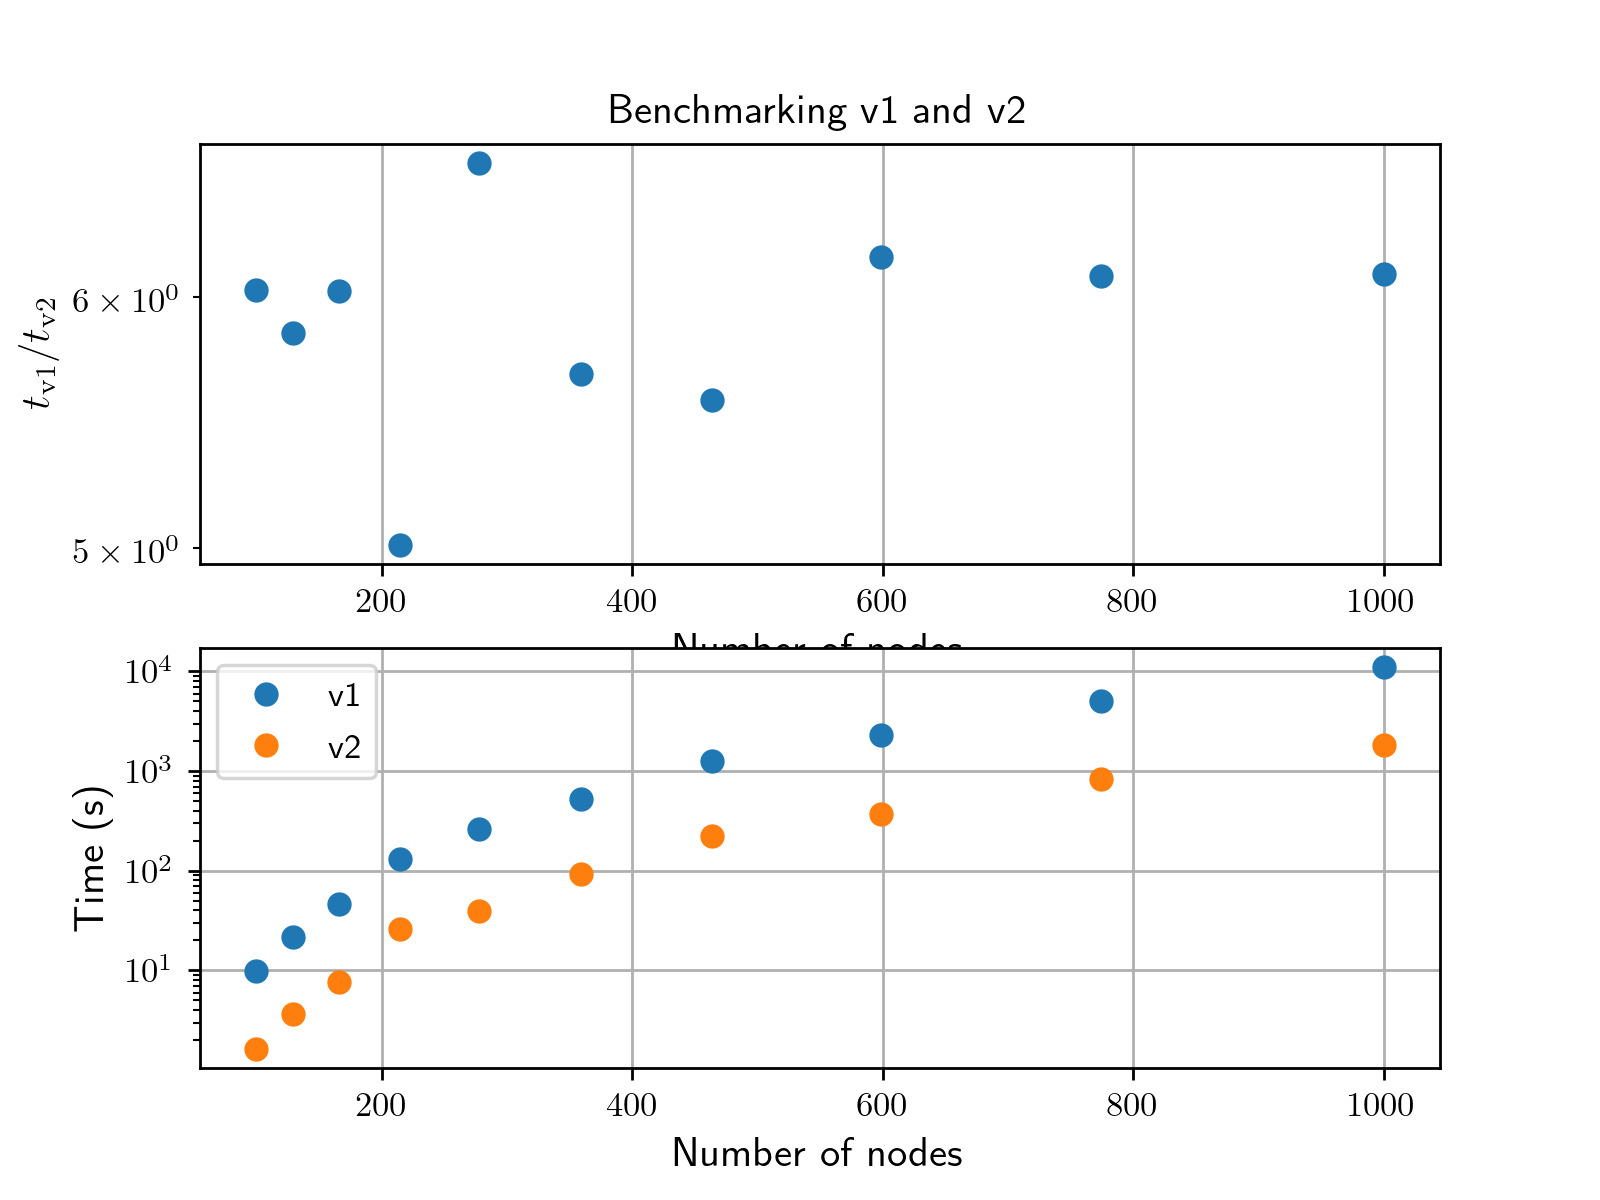
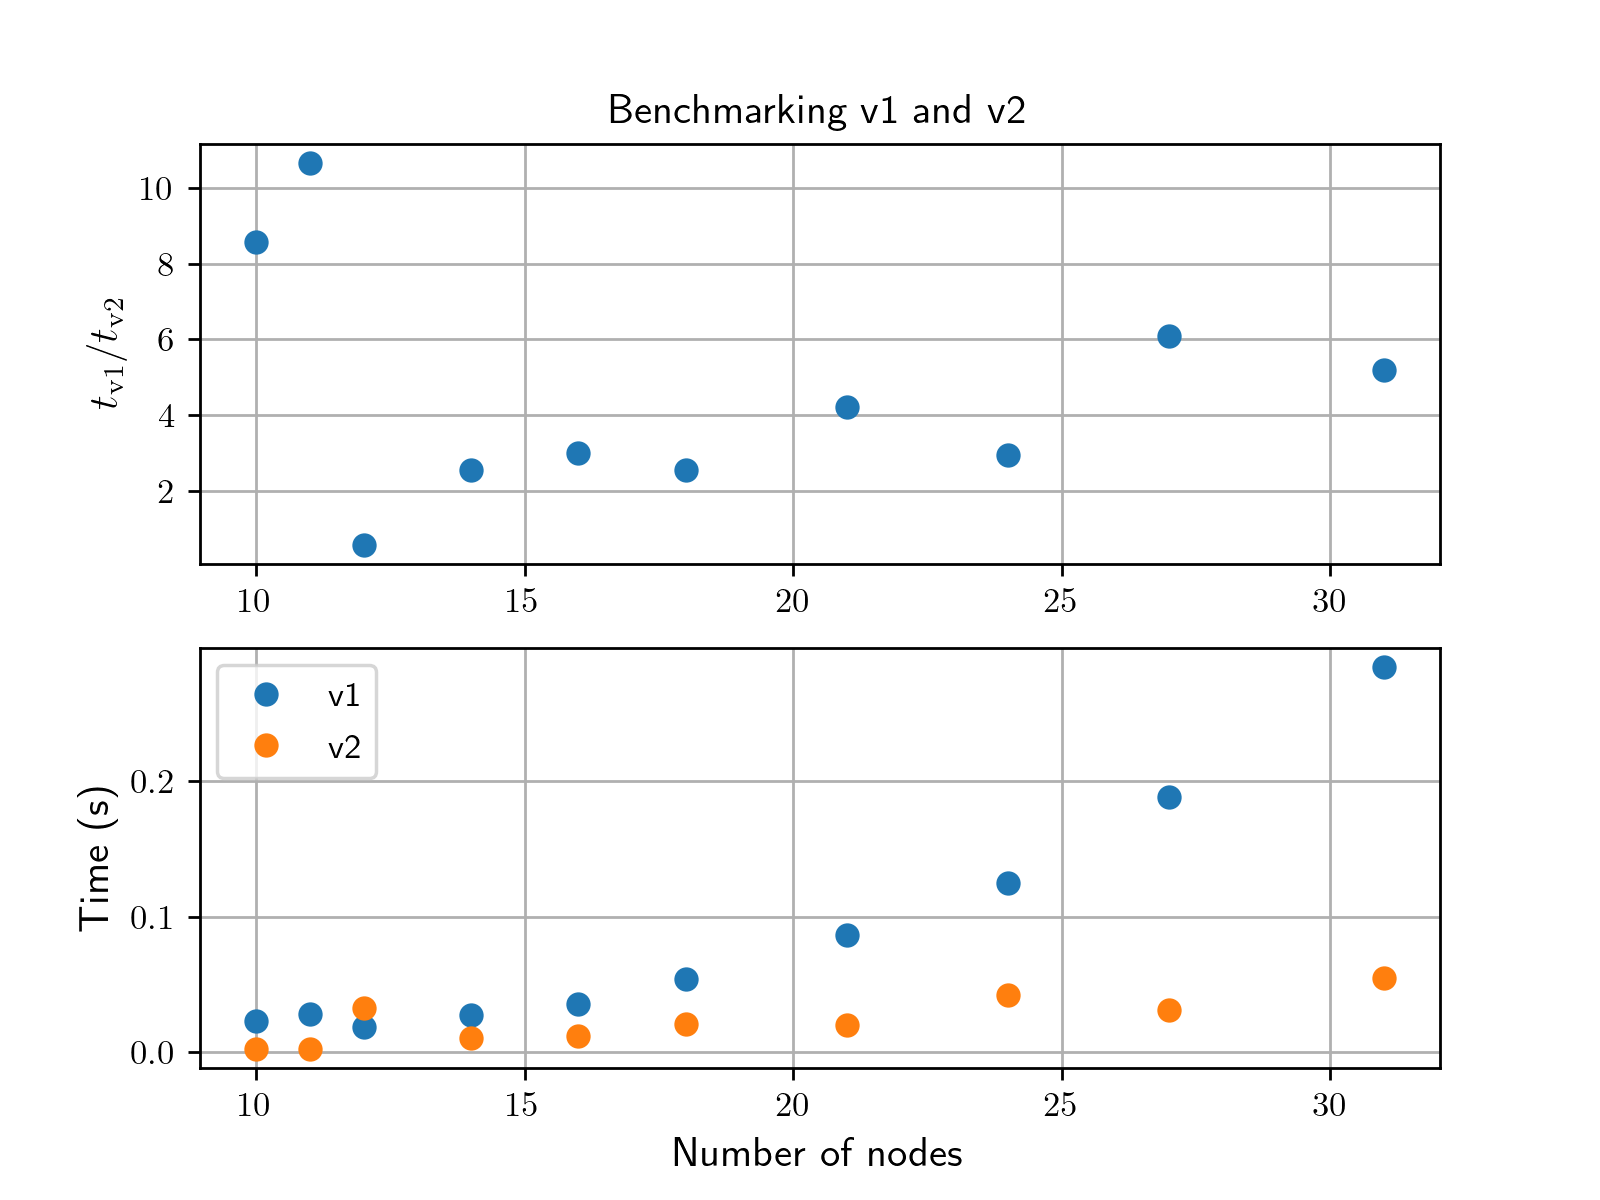
Implemented the algorithms in C
The time execution difference between python and C is huge. 1000 nodes in C takes 0.02 seconds and in python around 10000 seconds

diff --git a/src/python/v2.py b/src/python/v2.py
@@ -15,12 +15,57 @@ def countTriangles (adjacency):
 
 if __name__ == "__main__":
     # Driver code
-    graph = [[0, 1, 0, 0, 1, 0],  
-            [1, 0, 1, 0, 1, 0],  
-            [0, 1, 0, 1, 0, 0],  
-            [0, 0, 1, 0, 1, 1],
-            [1, 1, 0, 1, 0, 0],
-            [0, 0, 0, 1, 0, 0]] 
+    graph = [[0,1,1,1,0,0,1,1,0,0,0,0,1,0,0,1,0,0,0,0,1,0,1,1,0,0,1,1,1,1,0,1,0,1,1,0,0,0,1,0,0,1,0,1,0,0,0,0,1,0],
+            [0,0,0,1,1,0,1,1,1,0,0,1,1,0,1,0,0,1,1,1,1,1,0,0,1,0,0,1,0,1,0,0,0,0,1,1,1,0,0,0,0,0,0,0,0,1,0,0,0,1],
+            [1,1,1,0,1,0,0,0,1,1,1,1,1,1,0,1,1,1,1,1,1,0,0,1,0,0,0,0,1,0,0,0,0,1,0,1,1,1,1,0,0,1,0,1,0,0,0,1,1,0],
+            [1,0,0,1,0,0,1,0,0,0,1,0,1,1,1,1,0,0,0,0,1,0,1,1,0,1,1,0,1,0,0,0,0,0,1,0,0,0,1,1,1,0,1,0,1,1,1,1,1,0],
+            [1,0,0,0,1,0,0,0,1,1,0,1,1,1,0,0,1,0,0,0,1,1,0,1,1,1,0,1,1,1,1,0,0,1,1,1,0,1,0,1,0,0,0,1,1,0,1,1,1,1],
+            [1,0,1,0,1,0,1,1,1,0,1,0,1,1,0,0,0,0,1,0,1,1,1,1,0,0,0,1,1,1,0,1,1,1,1,1,0,0,0,1,1,1,0,0,0,0,0,1,0,1],
+            [1,1,0,0,0,0,1,0,1,0,1,1,1,1,1,0,0,1,1,0,0,0,0,0,0,0,0,0,1,0,1,1,1,1,1,0,1,0,0,0,1,0,1,0,1,0,1,1,1,0],
+            [1,0,0,1,0,0,0,1,0,1,1,1,0,1,0,0,1,1,0,1,1,1,1,0,0,0,1,1,1,0,1,1,0,1,0,1,1,0,0,1,0,1,0,0,0,0,0,1,1,1],
+            [1,0,0,0,0,0,1,1,1,0,0,0,1,0,1,0,1,0,0,1,1,0,1,1,1,1,1,1,1,0,0,0,0,1,0,1,1,1,0,1,0,0,1,1,1,1,1,0,1,0],
+            [0,1,0,1,0,1,0,0,1,1,0,1,1,1,0,0,0,0,1,0,1,1,1,0,1,0,1,0,0,1,0,0,0,1,1,0,0,0,0,1,1,1,1,1,0,1,1,0,1,0],
+            [0,0,0,1,1,1,1,0,1,0,1,0,0,1,1,0,0,1,0,0,1,1,1,0,0,1,1,1,1,1,0,0,1,0,1,0,1,1,1,0,1,0,0,1,0,1,1,0,1,1],
+            [0,0,1,0,0,1,1,1,1,1,0,1,1,0,1,0,0,0,1,1,0,0,0,1,0,0,0,1,0,1,1,0,1,0,0,1,1,0,1,0,1,1,1,0,1,0,0,0,0,0],
+            [1,1,0,1,0,0,1,0,0,1,0,1,0,1,1,0,1,0,0,0,1,1,1,0,1,1,1,0,1,1,0,0,0,0,0,0,1,1,1,1,1,1,0,1,0,1,1,1,1,0],
+            [1,0,1,1,1,1,0,0,1,1,1,1,1,0,1,1,0,0,1,1,1,0,0,1,1,1,0,0,0,0,0,0,0,0,1,1,1,1,1,0,0,1,1,1,1,0,1,1,1,0],
+            [1,0,0,1,0,1,0,0,1,1,0,0,1,1,0,0,0,1,1,0,1,1,1,0,0,0,0,1,1,1,1,0,0,1,0,0,0,0,0,0,1,1,0,0,0,0,0,0,1,1],
+            [0,0,0,1,0,1,1,0,0,1,0,0,1,0,1,1,0,0,0,0,0,1,1,0,0,1,0,0,0,1,0,0,1,0,0,1,1,1,1,0,0,1,0,0,1,1,1,1,1,1],
+            [0,1,1,1,1,1,1,1,1,1,0,1,1,1,0,1,0,1,1,0,1,1,1,1,1,1,1,1,0,0,0,0,0,1,0,1,0,1,1,0,0,1,1,1,1,1,1,1,1,0],
+            [1,0,1,1,0,1,0,1,0,0,1,0,1,1,0,1,1,0,0,0,0,0,1,0,1,0,1,0,0,0,0,1,1,0,0,1,1,0,0,1,1,1,1,0,1,1,1,0,0,1],
+            [0,0,1,1,0,0,0,0,1,0,0,1,1,1,1,0,0,0,0,0,1,1,0,1,1,1,0,0,1,0,1,1,1,0,0,1,1,0,1,0,0,0,1,0,1,1,0,0,1,0],
+            [0,1,0,0,0,1,1,0,0,0,1,1,1,0,0,0,1,1,0,1,1,1,1,0,1,0,1,1,0,1,1,1,0,1,1,0,1,1,0,1,1,1,0,1,1,0,1,1,1,1],
+            [0,0,0,1,1,1,1,0,0,0,1,0,1,1,1,0,1,0,1,0,1,1,1,0,0,1,0,1,0,0,0,0,0,1,1,1,0,0,0,1,0,1,1,1,1,0,0,0,1,1],
+            [0,0,0,0,0,0,1,1,1,1,1,0,1,1,1,0,1,1,0,1,0,1,0,1,0,1,0,0,0,1,0,0,1,0,0,0,1,1,1,0,0,0,0,1,1,1,1,0,1,0],
+            [1,1,1,0,1,1,1,1,0,1,0,0,0,1,0,0,1,1,0,0,0,0,0,0,0,0,0,1,0,1,1,0,0,0,0,1,0,1,0,0,1,0,0,1,0,0,1,1,0,1],
+            [0,0,0,0,0,0,0,0,1,1,1,1,1,0,1,1,1,1,0,0,1,1,0,1,0,0,0,0,0,0,1,0,0,1,0,0,1,1,1,1,0,0,0,1,0,1,0,0,1,0],
+            [0,0,0,0,0,0,1,0,0,1,0,0,1,0,1,1,0,1,0,1,0,0,0,0,1,0,1,1,0,0,0,0,1,0,1,1,0,0,1,1,1,1,1,0,1,0,1,1,1,0],
+            [1,1,0,1,1,0,1,1,1,0,1,1,0,0,1,1,1,0,1,0,1,0,1,0,0,0,0,0,0,0,0,1,1,0,0,1,0,1,0,0,1,1,1,0,0,1,1,1,1,1],
+            [0,0,1,1,0,0,0,0,0,0,0,0,1,0,0,1,1,1,0,1,1,0,0,0,0,0,1,1,0,0,0,0,0,0,1,0,0,1,1,0,1,1,0,0,1,0,1,0,1,0],
+            [1,0,0,0,1,0,0,0,1,0,1,0,0,1,0,0,0,0,1,1,0,1,0,0,1,0,0,1,0,0,1,0,0,1,0,1,1,0,0,0,1,1,0,1,0,0,1,0,0,1],
+            [1,0,0,0,0,1,0,1,0,0,1,1,0,1,0,0,1,1,1,1,0,0,0,0,1,0,1,1,1,1,0,0,0,0,0,0,1,0,1,0,1,0,1,1,0,0,0,1,1,1],
+            [0,1,1,0,0,0,0,1,1,1,0,1,0,0,1,0,1,1,1,0,1,0,1,0,1,1,0,1,0,0,0,0,1,1,0,1,0,0,0,1,0,1,1,0,1,0,0,0,1,1],
+            [1,0,1,0,1,1,1,1,0,1,1,1,1,1,0,1,0,0,1,1,0,1,0,1,1,1,1,0,0,1,1,1,1,1,1,0,0,0,0,0,1,1,1,0,0,0,1,1,0,0],
+            [0,0,0,0,1,1,1,1,1,1,0,1,0,1,0,1,0,0,1,0,0,0,1,0,0,0,0,1,1,0,0,1,1,0,1,0,1,0,1,1,0,1,0,0,1,0,0,1,0,1],
+            [1,0,0,0,0,0,0,0,0,1,1,0,0,0,0,1,0,1,0,0,0,0,1,0,0,0,0,0,1,0,0,0,1,0,1,1,0,1,0,0,1,1,0,1,1,0,1,1,0,1],
+            [1,0,1,1,1,1,1,1,0,1,0,0,1,1,0,0,0,0,0,0,1,1,1,1,0,0,0,1,0,0,0,1,0,1,0,1,1,0,1,1,1,1,1,0,0,1,1,0,1,1],
+            [1,0,0,0,0,0,1,0,0,1,0,0,0,0,0,1,0,1,1,1,0,0,0,1,0,0,0,1,0,1,0,1,0,0,0,0,1,1,0,1,0,0,1,0,0,1,1,0,0,0],
+            [1,0,0,1,1,1,1,1,0,0,1,1,1,1,1,1,1,0,0,1,1,0,1,1,1,1,0,0,0,1,1,1,1,1,1,1,0,0,0,1,0,1,0,0,0,1,1,1,0,0],
+            [0,1,0,1,0,1,1,1,0,1,0,1,0,1,0,1,0,1,0,1,0,0,0,0,0,1,1,0,0,1,0,1,1,0,0,1,0,1,0,0,0,0,1,1,0,1,0,0,0,0],
+            [1,0,1,0,0,1,1,0,1,1,1,1,0,0,0,1,0,0,0,0,0,1,1,1,0,1,0,0,1,1,1,1,1,0,1,0,1,0,0,1,1,1,0,0,0,0,1,0,0,1],
+            [0,0,0,1,1,0,0,0,1,0,1,0,1,0,0,0,0,1,0,0,0,1,0,1,1,0,1,0,0,0,0,0,0,0,0,0,1,0,0,0,0,1,0,1,1,0,1,0,1,1],
+            [0,0,1,0,1,0,0,0,1,0,0,1,1,1,1,1,1,0,1,1,0,0,0,0,1,1,0,1,1,0,0,0,0,1,0,1,0,1,1,1,1,0,0,0,1,1,1,0,0,1],
+            [1,0,1,1,1,0,0,1,1,0,1,0,0,1,1,0,0,1,1,0,0,1,0,0,1,1,0,1,1,0,0,0,0,1,1,1,1,1,1,1,1,0,1,1,0,0,0,0,0,1],
+            [0,0,0,0,1,0,1,1,1,0,1,1,0,1,0,1,1,1,1,0,0,0,0,1,0,0,0,0,1,0,1,1,0,0,0,1,0,1,0,1,0,1,0,0,1,0,0,0,1,1],
+            [0,0,1,0,1,1,1,1,1,0,1,1,1,0,1,1,1,1,1,0,0,1,1,0,1,0,0,1,0,1,0,0,1,0,1,1,1,0,0,1,0,0,0,1,0,1,1,1,0,0],
+            [1,0,1,1,0,0,1,0,0,0,1,0,0,1,0,1,0,0,1,0,1,1,0,1,1,0,0,0,0,0,0,1,0,1,0,0,1,0,0,1,0,1,0,0,0,0,0,0,0,1],
+            [1,1,1,1,0,0,0,0,0,0,0,0,1,0,1,0,0,0,0,0,0,0,0,0,0,0,0,0,1,1,0,0,0,1,1,1,1,1,1,1,1,0,1,1,0,0,1,1,0,1],
+            [1,0,1,1,0,1,0,1,0,1,0,0,1,0,1,0,1,0,0,1,1,1,1,0,0,1,0,1,0,0,0,0,1,1,1,1,1,1,0,1,0,0,1,1,1,0,0,0,0,0],
+            [1,1,1,0,1,0,0,1,1,0,1,0,0,0,1,0,0,0,1,0,1,0,1,0,1,0,0,1,0,0,1,0,1,1,0,0,1,0,1,0,1,1,0,1,1,0,1,1,0,1],
+            [0,0,1,1,0,0,1,1,0,1,1,1,1,1,0,0,1,1,0,1,0,1,0,0,1,1,0,0,1,1,1,1,1,0,0,1,1,1,0,1,0,0,0,0,1,1,0,0,0,0],
+            [1,0,0,1,1,1,1,1,1,0,0,1,1,1,1,1,1,0,0,1,1,0,1,0,0,0,1,0,1,1,1,0,0,1,0,1,0,1,0,1,1,1,0,0,0,0,1,1,0,1],
+            [1,0,1,0,0,0,1,1,0,0,0,1,0,0,0,0,1,0,1,0,0,0,1,0,0,1,0,1,1,1,0,0,1,0,0,1,0,1,0,0,1,0,0,0,1,0,0,0,1,0],
+            ]
 
     print("How many times a vertix belong to a triangle?") 
     vertices, count = countTriangles(graph)

diff --git a/src/c/v3.c b/src/c/v3.c
@@ -1,53 +1,81 @@
 #include<stdio.h>
 #include<stdlib.h>
+#include <time.h>
+#include<stdint.h>
 
-// declare functions
-int* count_triangles_v2(int**,const size_t length);
-int* count_triangles_v3(int***);
+uint32_t* count_triangles_v2(int *, const size_t);
+//int* count_triangles_v3();
 
 int main() {
 
-    int adjacency[6][6] = {{0, 1, 0, 0, 1, 0},
-                       {1, 0, 1, 0, 1, 0},
-                       {0, 1, 0, 1, 0, 0},
-                       {0, 0, 1, 0, 1, 1},
-                       {1, 1, 0, 1, 0, 0},
-                       {0, 0, 0, 1, 0, 0}};
+    const uint32_t nodes = 1000; 
+    // int adjacency[][nodes] = {{0, 1, 0, 0, 1, 0},
+    //                    {1, 0, 1, 0, 1, 0},
+    //                    {0, 1, 0, 1, 0, 0},
+    //                    {0, 0, 1, 0, 1, 1},
+    //                    {1, 1, 0, 1, 0, 0},
+    //                    {0, 0, 0, 1, 0, 0}};
 
-    const int nodes = 6;
-    printf("The length of the array is %d", nodes);
-    printf("\nTest %d", *(adjacency[0] + 5));
-    int ***csc;
-
-    int* vertices = count_triangles_v2(adjacency, nodes);
-
-    printf("\n");
-    int i;
-    for (i = 0; i<nodes; i++) {
-            printf("The %d node is participating in %d triangles\n", i, vertices[i]);
+    // create a random array
+    int adjacency[nodes][nodes] = {0};
+    srand(time(NULL));
+    printf("The random generated array is: \n[");
+    for (int i = 0; i < nodes; i++)
+    {
+        //printf("[");
+        for (int j = 0; j < nodes; j++)
+        {
+            adjacency[i][j] = rand()%2;
+            //printf("%d,", adjacency[i][j]);
         }
+        //printf("],\n");
+    }
+    printf("]\n");
+    
+    
+    size_t length = sizeof(adjacency)/sizeof(adjacency[0][0]);
+    printf("The length of the array is %d and the nodes are %d\n", length, nodes);
+
+    uint32_t *vertices = count_triangles_v2((int *)adjacency, nodes);
+
+    for (int k = 0; k<nodes; k++) {
+            printf("The %d node is participating in %d triangles\n", k, vertices[k]);
+        }
+
+    free(vertices);
 
     return 0;
 }
 
-int* count_triangles_v2 (int** adjacency,const size_t length) {
-    int *vertices = (int*)malloc(length * sizeof(int));
+uint32_t* count_triangles_v2 (int *adjacency, const size_t nodes) {
+    uint32_t *vertices = (uint32_t*)calloc(nodes, sizeof(uint32_t));
+    int count = 0;
 
+    struct timespec tic;
+    struct timespec toc;
+    clock_gettime(CLOCK_MONOTONIC, &tic);
+    printf("Toc: %ld\n", tic.tv_nsec);
     int i, j, k;
-    for (i=0;i<length;i++){
-        for (j=i+1;j<length;j++) {
-            for (k=j+1;k<length;k++) {
-                if (adjacency[i][j] == adjacency[j][k] == adjacency[k][i] == 1){
+    for (i=0;i<nodes;i++){
+        for (j=i+1;j<nodes;j++) {
+            for (k=j+1;k<nodes;k++) {
+                if (*(adjacency + i*nodes + j) == 1 && *(adjacency + j*nodes + k) == 1 && *(adjacency + k*nodes + i) == 1) {
                     vertices[i] +=1;
                     vertices[j] +=1;
                     vertices[k] +=1;
+                    count++;
                 }
             }
         }
     }
+    clock_gettime(CLOCK_MONOTONIC, &toc);
+    printf("Toc: %ld\n", toc.tv_nsec);
+    printf("Time elapsed (seconds): %0.6f\n", (toc.tv_nsec - tic.tv_nsec)/(float)(1e9));
+    printf("Total triangles: %d\n", count);
+
     return vertices;
 }
 
-int* count_triangles_v3 (int*** adjacency) {
-    // from csc to adjacency? Of course not because the point is to use csc for large data
-}
+/* int* count_triangles_v3 () { */
+/*     // from csc to adjacency? Of course not because the point is to use csc for large data */
+/* } */

diff --git a/src/python/benchmarking.py b/src/python/benchmarking.py
@@ -38,7 +38,7 @@ matrix_nodes = []
 matrix_t_v1 = []
 matrix_t_v2 = []
 ratio = []
-for n in np.logspace(2,3, 10):
+for n in np.logspace(2,3, 8):
     G = nx.erdos_renyi_graph(int(n), 0.3, seed=random.seed(), directed=False)
     adjacency = nx.to_numpy_array(G)
     t_v1 = timeit.timeit('v1(adjacency)', number=3, globals=globals()) 
@@ -53,17 +53,15 @@ for n in np.logspace(2,3, 10):
 plt.rc('text', usetex=True)
 plt.subplot(2,1,1)
 plt.title("Benchmarking v1 and v2")
-plt.xlabel('Number of nodes', fontsize=12)
+#plt.xlabel('Number of nodes', fontsize=12)
 plt.ylabel(r'$t_\mathrm{v1}/t_\mathrm{v2}$', fontsize=12)
 plt.rc('text', usetex=True)
 plt.plot(matrix_nodes, ratio, 'o')
-plt.yscale('log')
 plt.grid(True)
 
 plt.subplot(2,1,2)
 plt.plot(matrix_nodes, matrix_t_v1, 'o', label = "v1")
 plt.plot(matrix_nodes, matrix_t_v2, 'o', label = "v2")
-plt.yscale('log')
 plt.xlabel('Number of nodes', fontsize=12)
 plt.ylabel('Time (s)', fontsize=12)
 plt.grid(True)

diff --git a/src/python/sanity_check.py b/src/python/sanity_check.py
@@ -4,15 +4,15 @@ import random
 import time
 import v1
 import v2
-import trace
+import trace_cube_matrix as trace
 
-G = nx.erdos_renyi_graph(1000, 0.35, seed=random.seed(), directed=False)
+G = nx.erdos_renyi_graph(50, 0.35, seed=random.seed(), directed=False)
 adjacency = nx.to_numpy_array(G)
 #print("The adjacency for this test case will be: ")
-#print(adjacency)
+print(adjacency)
 
 nx.draw(G)
-plt.savefig("docs/undirected_graph.png")
+plt.savefig("../../docs/undirected_graph.png")
 
 print("\n<----------v1---------->")
 start = time.process_time()
@@ -33,7 +33,7 @@ for i in range(len(G)):
 print("Total number of triangles: ", count)
 
 print("\n<----------GeeksForGeeks trace method---------->")
-trace.V = 1000 # number of nodes
+trace.V = 50 # number of nodes
 start = time.process_time()
 count = trace.triangleInGraph(adjacency)
 print("Execution time: ", (time.process_time() - start))
